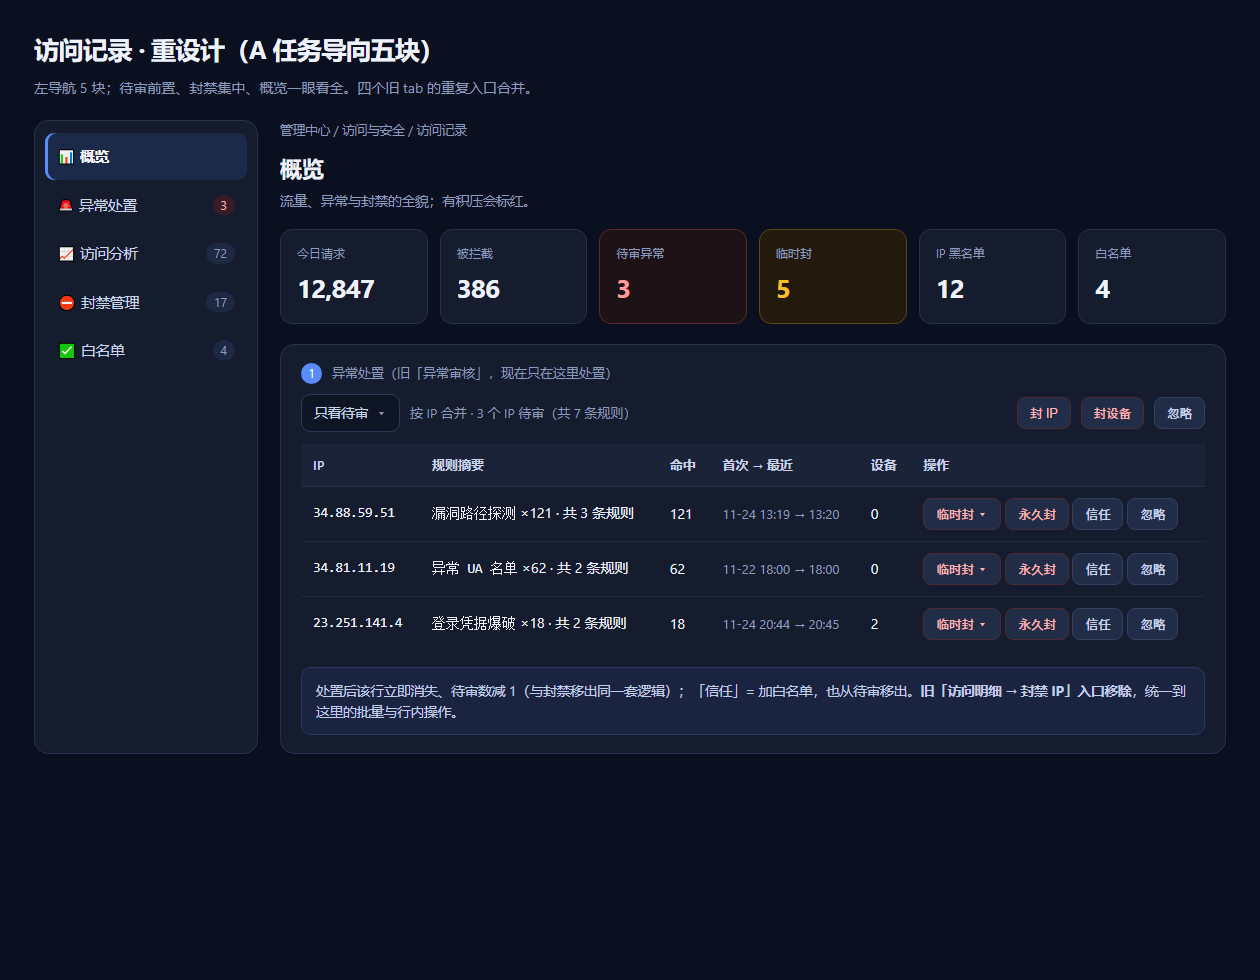
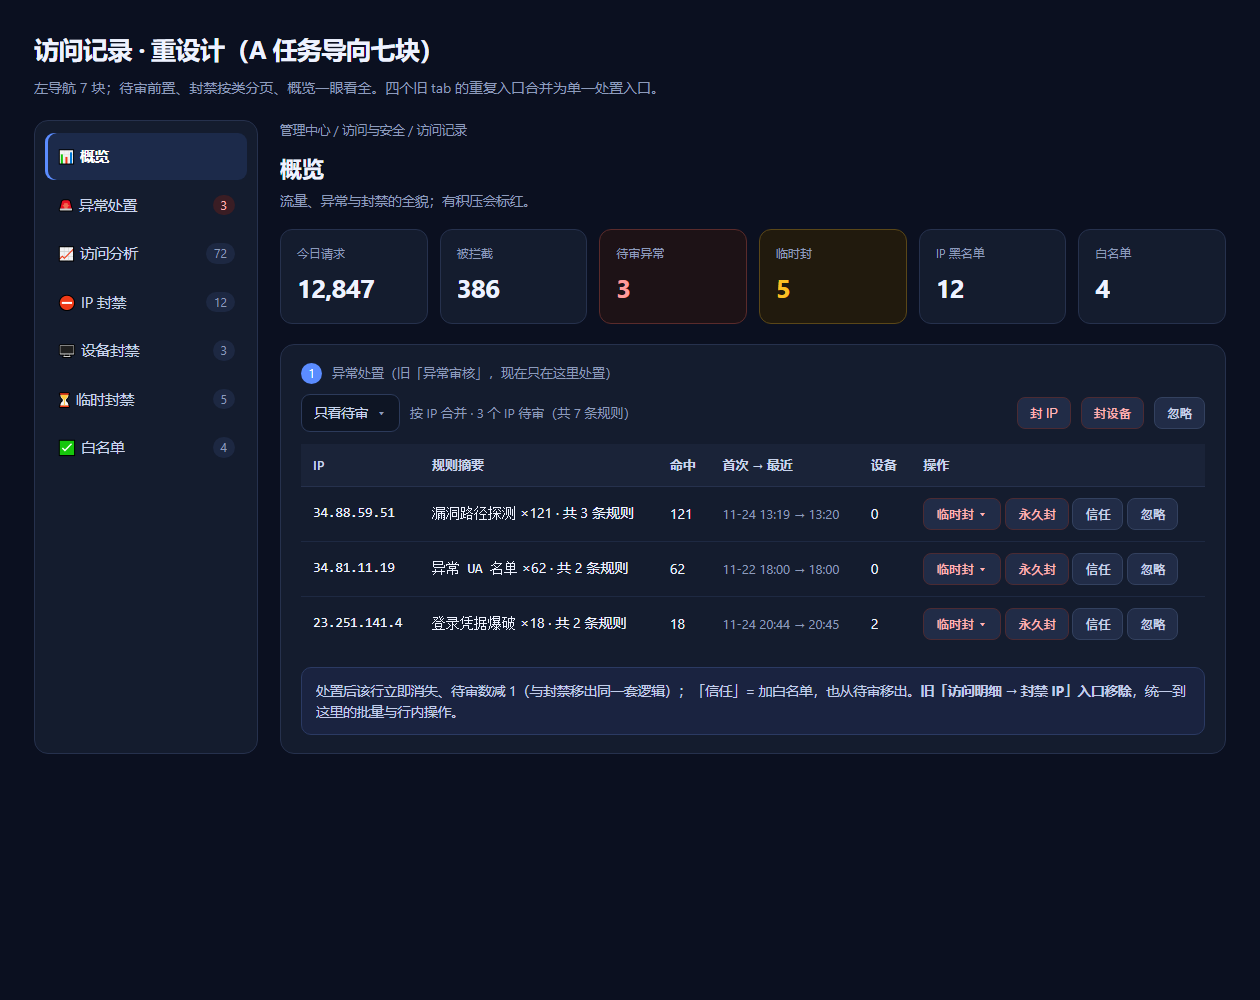
docs(design): FZ 封禁拆四页——左导航 7 块（概览/异常处置/访问分析/IP 封禁/设备封禁/临时封禁/白名单），demo 与规格同步

diff --git a/docs/design/visitors-redesign-2026-11-27.html b/docs/design/visitors-redesign-2026-11-27.html
@@ -2,7 +2,7 @@
 <html lang="zh-CN">
 <head>
 <meta charset="utf-8">
-<title>访问记录重设计 · A 任务导向五块（2026-11-27）</title>
+<title>访问记录重设计 · A 任务导向七块（2026-11-27）</title>
 <style>
   :root{
     --bg:#0b1020; --panel:#141c2e; --border:#26314d; --fg:#eef2ff; --fg2:#c9d4ec; --muted:#8d9bbb;
@@ -83,15 +83,17 @@
 
 <!-- ============ 图 1：概览 + 异常处置 ============ -->
 <section id="s1" class="shot">
-  <h1>访问记录 · 重设计（A 任务导向五块）</h1>
-  <p class="sub">左导航 5 块；待审前置、封禁集中、概览一眼看全。四个旧 tab 的重复入口合并。</p>
+  <h1>访问记录 · 重设计（A 任务导向七块）</h1>
+  <p class="sub">左导航 7 块；待审前置、封禁按类分页、概览一眼看全。四个旧 tab 的重复入口合并为单一处置入口。</p>
 
   <div class="wrap">
     <div class="nav">
       <div class="it on"><span>📊 概览</span></div>
       <div class="it"><span>🚨 异常处置</span><span class="n hot">3</span></div>
       <div class="it"><span>📈 访问分析</span><span class="n">72</span></div>
-      <div class="it"><span>⛔ 封禁管理</span><span class="n">17</span></div>
+      <div class="it"><span>⛔ IP 封禁</span><span class="n">12</span></div>
+      <div class="it"><span>🖥 设备封禁</span><span class="n">3</span></div>
+      <div class="it"><span>⏳ 临时封禁</span><span class="n">5</span></div>
       <div class="it"><span>✅ 白名单</span><span class="n">4</span></div>
     </div>
 
@@ -196,14 +198,14 @@
   <div class="note">抽屉只读（不在这里封禁，避免再造一个入口）；有待审时给「去异常处置」并定位该 IP；已封禁时给「去封禁管理」链接。</div>
 </section>
 
-<!-- ============ 图 3：封禁管理 + 白名单 ============ -->
+<!-- ============ 图 3：四个封禁 / 白名单页面 ============ -->
 <section id="s3" class="shot" style="display:none">
-  <h1>封禁管理 · 白名单</h1>
-  <p class="sub">旧「封禁与白名单」拆成两块：封禁管 IP/设备/临时封三类，白名单独立一块。</p>
+  <h1>四个封禁 / 白名单页面</h1>
+  <p class="sub">左导航 7 块：每个只做一件事。四类解封各自一页，不再一页塞三块。</p>
 
   <div class="grid2" style="margin-top:22px">
     <div class="card" style="margin-top:0">
-      <h2>⛔ 封禁管理 · IP 黑名单（12）</h2>
+      <h2>⛔ IP 封禁（12）</h2>
       <div class="bar"><div class="search" style="max-width:none">按 IP 搜索</div><button class="btn primary">手动添加</button></div>
       <table>
         <tr><th>IP</th><th>备注</th><th>加入时间</th><th>操作</th></tr>
@@ -211,6 +213,29 @@
         <tr><td class="mono">34.81.11.19</td><td class="muted">异常 UA</td><td class="muted">11-27 15:40</td><td><button class="btn">解封</button></td></tr>
         <tr><td class="mono">23.251.141.4</td><td class="muted">凭据爆破</td><td class="muted">11-24 20:50</td><td><button class="btn">解封</button></td></tr>
       </table>
+      <div class="note">封禁后该 IP 无法访问站点；加黑自动移白。</div>
+    </div>
+
+    <div class="card" style="margin-top:0">
+      <h2>🖥 设备封禁（3）</h2>
+      <div class="bar"><div class="search" style="max-width:none">按设备码 / 指纹搜索</div></div>
+      <table>
+        <tr><th>设备码 / 指纹</th><th>最近出现</th><th>封禁至</th><th>操作</th></tr>
+        <tr><td class="mono">a1b2c3… / 9f8e7d…</td><td class="muted">11-27 14:02</td><td class="muted">永久</td><td><button class="btn">解封</button></td></tr>
+        <tr><td class="mono">ffee11… / 33aa22…</td><td class="muted">11-26 09:18</td><td class="muted">11-27 16:20</td><td><button class="btn">解封</button></td></tr>
+      </table>
+      <div class="note">按指纹生效，换 IP 也命中；白名单 IP 不受影响。</div>
+    </div>
+
+    <div class="card" style="margin-top:0">
+      <h2>⏳ 临时封禁（5 生效中）</h2>
+      <div class="bar"><div class="sel">生效中 <span class="muted">▾</span></div><span class="muted">来源：频率超限 / 路径规则 / 异常 UA / 人工临时封</span></div>
+      <table>
+        <tr><th>IP</th><th>来源</th><th>到期</th><th>操作</th></tr>
+        <tr><td class="mono">35.233.44.84</td><td class="muted">频率超限</td><td class="muted">剩余 6 分钟</td><td><button class="btn">解除</button></td></tr>
+        <tr><td class="mono">176.34.12.9</td><td class="muted">漏洞路径探测</td><td class="muted">剩余 42 分钟</td><td><button class="btn">解除</button></td></tr>
+      </table>
+      <div class="note">只解除自动临时封禁，<b>不</b>删 IP 黑名单（两个概念分开）。</div>
     </div>
 
     <div class="card" style="margin-top:0">
@@ -221,35 +246,11 @@
         <tr><td class="mono">127.0.0.1</td><td class="muted">本机</td><td class="muted">不限制</td><td><button class="btn">移出</button></td></tr>
         <tr><td class="mono">203.0.113.0/24</td><td class="muted">公司出口</td><td class="muted">页面 600/分</td><td><button class="btn">移出</button></td></tr>
       </table>
-      <div class="note">白名单 IP 不受黑名单与频率限制；加白会自动移黑、清临时封禁。</div>
+      <div class="note">白名单不受黑名单与频率限制；加白自动移黑、清临时封禁。</div>
     </div>
   </div>
 
-  <div class="grid2" style="margin-top:20px">
-    <div class="card" style="margin-top:0">
-      <h2>设备封禁（3）</h2>
-      <table>
-        <tr><th>设备码 / 指纹</th><th>最近出现</th><th>操作</th></tr>
-        <tr><td class="mono">a1b2c3… / 9f8e7d…</td><td class="muted">11-27 14:02</td><td><button class="btn">解封</button></td></tr>
-        <tr><td class="mono">ffee11… / 33aa22…</td><td class="muted">11-26 09:18</td><td><button class="btn">解封</button></td></tr>
-      </table>
-      <div class="note">设备封禁按指纹生效，换 IP 也命中；白名单 IP 不受影响。</div>
-    </div>
-
-    <div class="card" style="margin-top:0">
-      <h2>临时封禁记录（abuse，5 生效中）</h2>
-      <div class="bar"><div class="sel">生效中 <span class="muted">▾</span></div><span class="muted">来源：频率超限 / 路径规则 / 异常 UA / 人工临时封</span></div>
-      <table>
-        <tr><th>IP</th><th>来源</th><th>到期</th><th>操作</th></tr>
-        <tr><td class="mono">35.233.44.84</td><td class="muted">频率超限</td><td class="muted">剩余 6 分钟</td><td><button class="btn">解除</button></td></tr>
-        <tr><td class="mono">176.34.12.9</td><td class="muted">漏洞路径探测</td><td class="muted">剩余 42 分钟</td><td><button class="btn">解除</button></td></tr>
-      </table>
-      <div class="note">只解除自动临时封禁，<b>不</b>移除 IP 黑名单（两个概念分开，避免误操作）。</div>
-    </div>
-  </div>
-
-  <div class="note" style="margin-top:20px">旧「异常审核」里的「封设备」与「设备」tab 的封禁入口，统一收进「封禁管理 → 设备封禁」；行内快捷封设备只保留在异常处置里（带二次确认）。</div>
-  <div class="note" style="margin-top:14px"><b>解封集中</b>：四类解封（IP 黑名单 / 临时封 / 设备封禁 / 白名单）全部只在本页做，其他页只读或给跳转链接。<b>状态词统一</b>：正常 / 被拦截 / 临时封 / 已封禁 / 已信任（异常审核的「待审/已处置/已忽略/自动封禁」是审核记录状态，与 IP 状态是两个维度，不混用）。</div>
+  <div class="note" style="margin-top:20px"><b>四类解封各在自己那页</b>（IP 封禁 / 设备封禁 / 临时封禁 / 白名单），其他页只读或给跳转链接。<b>状态词统一</b>：正常 / 被拦截 / 临时封 / 已封禁 / 已信任（异常审核的「待审/已处置/已忽略/自动封禁」是审核记录状态，与 IP 状态是两个维度，不混用）。</div>
 </section>
 
 <script>
@@ -261,4 +262,5 @@
 </script>
 </body>
 </html>
+
 

diff --git a/docs/VISITORS-REDESIGN.md b/docs/VISITORS-REDESIGN.md
@@ -1,7 +1,7 @@
 # 访问记录重设计（FZ，待开发，暂不排期）
 
 > 状态：**需求与方案已确认（2026-11-27），待开发；所有者 2026-11-27 明确「只出设计，暂不排开发」**。
-> 关联：[demo](design/visitors-redesign-2026-11-27.html)（`-1.png` 概览+异常处置 / `-2.png` 访问分析 / `-3.png` 封禁管理+白名单）、
+> 关联：[demo](design/visitors-redesign-2026-11-27.html)（`-1.png` 概览+异常处置 / `-2.png` 访问分析 / `-3.png` 四个封禁/白名单页面）、
 > [封禁后移出列表 demo](design/visitor-ban-2026-11-27.html)（`-1/-2.png`，本批的交互子集）、
 > `frontend/src/pages/AdminModules.vue`（visitors 段）、`src/routes/admin-access.js`、`src/store/admin-access-repository.js`
 
@@ -23,19 +23,19 @@
 
 | # | 决策 |
 |---|---|
-| 1 | **A. 任务导向 5 块**：概览 / 异常处置 / 访问分析 / 封禁管理 / 白名单（左导航，不再用四个横 tab） |
+| 1 | **A. 任务导向 7 块**：概览 / 异常处置 / 访问分析 / **IP 封禁 / 设备封禁 / 临时封禁 / 白名单**（左导航，不再用四个横 tab） |
 | 2 | **要概览数字卡**：今日请求 / 被拦截 / 待审 / 封禁中 / 黑名单 / 白名单；待审有值标红并可点入 |
-| 3 | **「封禁与白名单」拆两块**：封禁管理（IP 黑名单 + 设备封禁 + 临时封禁记录）、白名单独立 |
+| 3 | **「封禁与白名单」拆成四个页面**：IP 封禁 / 设备封禁 / 临时封禁 / 白名单（各自一个导航块、各自解封） |
 | 4 | **封禁/信任后该行从默认视图移出**；默认状态 = 「有效访问」（排除已封禁 + 已信任） |
 | 5 | 封禁成功给 **toast + 5 秒撤销**（撤销 = 移出黑名单，行回原位） |
 | 6 | 「信任」（加白名单）同样移出默认视图；「封禁中」（临时封禁未到期）**保留**在默认视图 |
 | 7 | **明细子视图同口径**（封禁/信任后同样不显示），避免两视图对不上 |
 | 8 | **封禁/信任的唯一处置入口 = 异常处置**；访问分析只保留行内快捷操作（带二次确认） |
-| 9 | 设备封禁入口收进「封禁管理 → 设备封禁」；异常处置里的行内「封设备」保留（二次确认） |
+| 9 | 设备封禁入口收进「设备封禁」页；异常处置里的行内「封设备」保留（二次确认） |
 | 10 | 不改 `visitor_logs` 等数据（历史都在，只是默认不查）；不改权限模型 |
 | 11 | **处置动作只留「异常处置」一个入口**：访问分析改成**只读**（不再有封禁/信任按钮），封 IP / 信任 / 封设备只在异常处置做——入口从 5 个降到 1 个 |
-| 12 | **新增「IP 详情抽屉」**：点任意列表的 IP 打开只读抽屉（地区/状态/访问统计/最近记录/异常规则/设备），一处看全；有待审给「去异常处置」、已封禁给「去封禁管理」链接 |
-| 13 | **解封集中到「封禁管理」**：IP 黑名单 / 临时封 / 设备封禁 / 白名单四类解封只在这一页做；**状态词统一**为「正常 / 被拦截 / 临时封 / 已封禁 / 已信任」（异常审核的待审/已处置/已忽略/自动封禁是审核记录状态，与 IP 状态是两个维度，不混用） |
+| 12 | **新增「IP 详情抽屉」**：点任意列表的 IP 打开只读抽屉（地区/状态/访问统计/最近记录/异常规则/设备），一处看全；有待审给「去异常处置」、已封禁给「去 IP 封禁」链接 |
+| 13 | **解封各在自己那页**：IP 封禁 / 设备封禁 / 临时封禁 / 白名单 四页各自解封；**状态词统一**为「正常 / 被拦截 / 临时封 / 已封禁 / 已信任」（异常审核的待审/已处置/已忽略/自动封禁是审核记录状态，与 IP 状态是两个维度，不混用） |
 
 ## 2. 信息架构（左导航 5 块）
 
@@ -44,16 +44,18 @@
 | **概览** | `overview` | 6 张数字卡 + 待审提醒；点「待审」跳异常处置 |
 | **异常处置** | `review` | 按 IP 合并的待审队列（唯一处置入口）：临时封（10m/1h/1d）/ 永久封 / 信任 / 忽略 + 批量 |
 | **访问分析** | `analysis` | IP 统计（默认）/ 明细子视图 + 时间窗 1/7/30 + 状态筛选（有效访问默认）+ 搜索 + 展开详情；**只读**，行内只留「详情」打开 IP 抽屉 |
-| **IP 详情抽屉**（跨块共用） | — | 只读：地区 / 状态 / 访问次数 / 独立路径 / 设备 / 最近访问 / 异常规则；底部给「去异常处置」或「去封禁管理」跳转 |
-| **封禁管理** | `ban` | IP 黑名单（解封 / 手动添加）、设备封禁（解封）、临时封禁记录（abuse：生效中/已过期/全部，解除≠移黑）——**四类解封集中在这一页** |
-| **白名单** | `whitelist` | 白名单列表（备注 / 限流配置 / 移出 / 添加） |
+| **IP 详情抽屉**（跨块共用） | — | 只读：地区 / 状态 / 访问次数 / 独立路径 / 设备 / 最近访问 / 异常规则；底部给「去异常处置」或「去 IP 封禁」跳转 |
+| **IP 封禁** | `ban-ip` | IP 黑名单：解封 / 手动添加（CIDR 支持）/ 搜索 |
+| **设备封禁** | `ban-device` | 设备封禁列表：设备码・指纹 / 封禁至 / 解封 / 搜索 |
+| **临时封禁** | `ban-temp` | `ip_abuse` 记录：生效中/已过期/全部 + 解除（只清临时封、**不删黑名单**） |
+| **白名单** | `whitelist` | 白名单：备注 / 限流配置 / 移出 / 添加（加白自动移黑、清临时封） |
 
 ## 3. 关键交互
 
 1. **处置入口唯一**：封 IP / 信任 / 封设备只在「异常处置」（行内 + 批量）；访问分析列表与 IP 抽屉**不提供**封禁按钮（抽屉给跳转链接）；
-2. **IP 详情抽屉**：点任意 IP 打开，只读展示「访问统计 / 最近访问 / 异常规则 / 设备 / 状态」；有待审 → 「去异常处置」并定位；已封禁 → 「去封禁管理」；
+2. **IP 详情抽屉**：点任意 IP 打开，只读展示「访问统计 / 最近访问 / 异常规则 / 设备 / 状态」；有待审 → 「去异常处置」并定位；已封禁 → 「去 IP 封禁」；
 3. **封禁/信任后移出**：在异常处置处置成功后，该 IP 从待审队列消失、待审数减 1；它在「访问分析」的默认视图（有效访问）里也不再出现；
-4. **解封集中**：四类解封（黑名单 / 临时封 / 设备 / 白名单）只在「封禁管理」；「解除临时封禁」仍只动 `ip_abuse`、不移黑名单（BJ 批决策不变）；
+4. **解封各在自己那页**：IP 封禁 / 设备封禁 / 临时封禁 / 白名单 四页各自解封；「解除临时封禁」仍只动 `ip_abuse`、不移黑名单（BJ 批决策不变）；
 5. **状态词统一**：正常 `normal` / 被拦截 `intercepted` / 临时封 `banned`（显示剩余时间）/ 已封禁 `blocked` / 已信任 `trusted`；
 6. **明细与统计同口径**；时间窗切换清空展开缓存。
 
@@ -71,11 +73,11 @@
 
 ## 5. 前端
 
-- 访问记录页从「四个横 tab」重写为「左导航 5 块」（与 FY 设置页同构），URL 可用 `?view=` 记录当前块；
+- 访问记录页从「四个横 tab」重写为「左导航 7 块」（与 FY 设置页同构），URL 可用 `?view=` 记录当前块；
 - 概览数字卡：`GET /api/admin/visitors/overview`，30 秒自动刷新（页面可见时）；
 - **访问分析只读**：行内只留「详情」；新增 `IpDetailDrawer.vue`（只读抽屉，跨块复用）；
 - **处置只在异常处置**：封禁/信任/封设备统一走一个 `disposeThenRemove` 封装（乐观移除 + 补页 + toast 撤销 5 秒）；
-- **解封集中在封禁管理**：四类解封各有独立 API，UI 集中一页；
+- **解封各在自己那页**：IP 封禁 / 设备封禁 / 临时封禁 / 白名单 四页各自解封；
 - **状态词集中**：一个 `visitorStatus.js` 映射表（正常/被拦截/临时封/已封禁/已信任），全站引用，不再各写一套；
 - 移动端：左导航收成顶部下拉；抽屉全屏；卡片化列表保留。
 
@@ -90,13 +92,13 @@
 
 ## 7. 验收（8 条）
 
-1. 左导航 5 块；URL `?view=` 可直达每块、浏览器后退可回；
+1. 左导航 7 块；URL `?view=` 可直达每块、浏览器后退可回；
 2. 概览数字卡 6 项与接口一致；待审 > 0 标红、点击进异常处置；30 秒自动刷新（页面可见时）；
 3. **异常处置是唯一处置入口**：行内（临时封/永久封/信任/忽略）+ 批量（封 IP/封设备/忽略）可用；**访问分析与 IP 抽屉均无封禁/信任按钮**（模板静态锁）；
-4. **IP 抽屉**：点 IP 打开只读抽屉，含地区/状态/访问次数/独立路径/设备/最近访问/异常规则；有待审给「去异常处置」、已封禁给「去封禁管理」；
+4. **IP 抽屉**：点 IP 打开只读抽屉，含地区/状态/访问次数/独立路径/设备/最近访问/异常规则；有待审给「去异常处置」、已封禁给「去 IP 封禁」；
 5. 访问分析默认「有效访问」：已封禁 / 已信任 IP **不出现**；切「已封禁 / 已信任」可查历史；明细视图同口径；
 6. 处置后行消失 + toast「撤销」5 秒（撤销后行回原位、黑/白名单已移除）；当前页空了自动回上一页；计数同步；
-7. **解封集中在封禁管理**：四类解封可用（黑名单/临时封/设备/白名单）；「解除临时封禁」不删黑名单；**状态词全站统一**（正常/被拦截/临时封/已封禁/已信任）；
+7. **四类解封各在自己那页**：IP 封禁 / 设备封禁 / 临时封禁 / 白名单 各自可用；「解除临时封禁」不删黑名单；**状态词全站统一**（正常/被拦截/临时封/已封禁/已信任）；
 8. 移动端 375px 左导航变下拉、抽屉全屏、列表卡片化无横向溢出；`npm test`（分段）+ `frontend:build` + `scan` 全绿。
 
 ## 8. 实施顺序（本批暂不排期）
@@ -106,10 +108,12 @@
 | 子批 | 内容 | 验收 |
 |---|---|---|
 | **FZ-1** 结构与概览 | 左导航 5 块 + `?view=` + 概览数字卡（含 overview 接口） | §7 的 1 / 2 |
-| **FZ-2** 处置与列表 | 异常处置队列（唯一处置入口）+ 访问分析（只读，active/trusted 口径）+ IP 详情抽屉 + 处置后移出与撤销 + 封禁管理（四类解封）+ 白名单 + 状态词统一 | §7 的 3~8 |
+| **FZ-2** 处置与列表 | 异常处置队列（唯一处置入口）+ 访问分析（只读，active/trusted 口径）+ IP 详情抽屉 + 处置后移出与撤销 + 四个封禁/白名单页 + 状态词统一 | §7 的 3~8 |
 
 **暂不派开发**：所有者 2026-11-27 明确「只出设计，暂不排开发」，待 FX/FY 完成后按需插队。
 
 ## 9. 待确认
 
 无（九项已于 2026-11-27 确认：A 五块 / 概览数字卡 / 封禁与白名单拆分 / 封禁信任后移出 / toast 撤销 / 信任也移出 / 逐条同口径 / **处置只留异常处置一个入口** / **IP 详情抽屉** / **解封集中 + 状态词统一**）。
+
+

diff --git a/docs/REQUIREMENTS-INDEX.md b/docs/REQUIREMENTS-INDEX.md
@@ -183,7 +183,7 @@
 | **FW** | ⚙ 调整：慢慢同步——heat 100 款/10 分钟 + 过期阈值 30 天；steam-discovery 10 页/30 分钟 + fallback 10/轮 + 页游标（`app_meta`）；403/429 都切代理（按代理冷却 + 每请求 3 条 + 速率闸门 30 次/分钟，修订 PROXY-POOL 决策 1）；403 软退出 76 + 预警节流；拆 FW-1 / FW-2 / FW-3 | [SLOW-SYNC.md](SLOW-SYNC.md)、[PROXY-POOL.md](PROXY-POOL.md) §12 | 已发布 v2.31.0（2026-11-27；FW-1 `7c21b29` / FW-2 `09c7036` / FW-3 `cde8ea9`+`ee85ffb`；QA-FW-1/2/3 全放行） | ✅ 本轮已给 |
 | **FX** | ⚙ 调整：后台密钥查看统一——8 个 secret 在四种布局分支统一「**密码框 + 眼睛图标**原地切换明文/密文」（懒加载、30 秒自动回密文、未改动不提交）；审计写 `audit_logs`（`admin.secret_revealed`）；抽 `SecretField.vue` | [SECRET-REVEAL.md](SECRET-REVEAL.md)、demo `design/secret-reveal-2026-11-27.html` | 待开发（2026-11-27 确认，含 demo） | ✅ 本轮已给 |
 | **FY** | ⚙ 调整：系统设置页重设计——左导航 7 组（重划，去「高级」混维度）+ `/console/settings/:group` 二级路由 + 去卡片盒子（层级 3→2）+ 每项即时保存（防抖 + 合并）+ 工具栏只留搜索/只看非默认 | [SETTINGS-REDESIGN.md](SETTINGS-REDESIGN.md)、demo `design/settings-redesign-2026-11-27.html` | 待开发（2026-11-27 确认，含 demo；依赖 FX） | ✅ 本轮已给 |
-| **FZ** | ⚙ 调整：访问记录重设计——左导航五块（概览/异常处置/访问分析/封禁管理/白名单）+ 概览 6 张数字卡 + **处置只留异常处置一个入口**（访问分析只读）+ **IP 详情抽屉** + 封禁/信任后移出（toast 5 秒撤销）+ **四类解封集中 + 状态词统一**；新增 overview 接口、status 加 active/trusted | [VISITORS-REDESIGN.md](VISITORS-REDESIGN.md)、demo `design/visitors-redesign-2026-11-27.html` | 待开发（2026-11-27 确认，含 demo；**暂不排开发**） | ✅ 本轮已给 |
+| **FZ** | ⚙ 调整：访问记录重设计——左导航七块（概览/异常处置/访问分析/IP 封禁/设备封禁/临时封禁/白名单）+ 概览 6 张数字卡 + **处置只留异常处置一个入口**（访问分析只读）+ **IP 详情抽屉** + 封禁/信任后移出（toast 5 秒撤销）+ **四类解封各在自己那页 + 状态词统一**；新增 overview 接口、status 加 active/trusted | [VISITORS-REDESIGN.md](VISITORS-REDESIGN.md)、demo `design/visitors-redesign-2026-11-27.html` | 待开发（2026-11-27 确认，含 demo；**暂不排开发**） | ✅ 本轮已给 |
 
 ## 本会话（2026-11-06）讨论过、但**不属于项目文档**的内容
 

diff --git a/docs/TODO.md b/docs/TODO.md
@@ -269,16 +269,17 @@
 **依赖：** 无（建议排在 FX / FY 之后，共用行组件与左导航样式）
 **解锁：** 无
 **规格**：[VISITORS-REDESIGN.md](VISITORS-REDESIGN.md)
-**demo**：[design/visitors-redesign-2026-11-27.html](design/visitors-redesign-2026-11-27.html)（`-1.png` 概览+异常处置 / `-2.png` 访问分析 / `-3.png` 封禁管理+白名单）+
+**demo**：[design/visitors-redesign-2026-11-27.html](design/visitors-redesign-2026-11-27.html)（`-1.png` 概览+异常处置 / `-2.png` 访问分析+IP 抽屉 / `-3.png` 四个封禁/白名单页面）+ 
 [封禁移出交互](design/visitor-ban-2026-11-27.html)（`-1/-2.png`）
 
 - **现状（2026-11-27 核实）**：四个 tab「访问明细 / 异常审核 / 封禁与白名单 / 设备」——封 IP 三入口且不一致
   （`banIp()` 只刷 `loadSecurity()`，不刷当前列表）、封设备三处、三处都在按 IP 看数据、封禁页塞三个列表、无概览、
   待审（真正的待办）埋在第二位。
-- **范围**：左导航五块（概览 / 异常处置 / 访问分析 / 封禁管理 / 白名单）；概览 6 张数字卡（待审标红可点）；
+- **范围**：左导航七块（概览 / 异常处置 / 访问分析 / **IP 封禁 / 设备封禁 / 临时封禁** / 白名单）；概览 6 张数字卡（待审标红可点）；
   **处置只留「异常处置」一个入口**（访问分析改只读，封禁/信任/封设备从 5 个入口降到 1 个）；
   **新增 IP 详情抽屉**（只读看全访问/异常/设备/状态）；封禁/信任后行从「有效访问」移出 + toast 5 秒撤销；
-  明细与统计同口径；**四类解封集中到封禁管理**；**状态词统一**（正常/被拦截/临时封/已封禁/已信任）；
-  设备封禁收进封禁管理；新增 `GET /api/admin/visitors/overview`，`by-ip`/`visitors` 的 status 加 `active`（默认）/`trusted`。
+  明细与统计同口径；**四类解封各在自己那页**；**状态词统一**（正常/被拦截/临时封/已封禁/已信任）；
+  新增 `GET /api/admin/visitors/overview`，`by-ip`/`visitors` 的 status 加 `active`（默认）/`trusted`。
 - **验收**：见规格 §7（8 条）；拆 FZ-1（结构+概览）/ FZ-2（处置+列表）两批。
 - **排期**：**暂不派开发**，等所有者决定。
+
